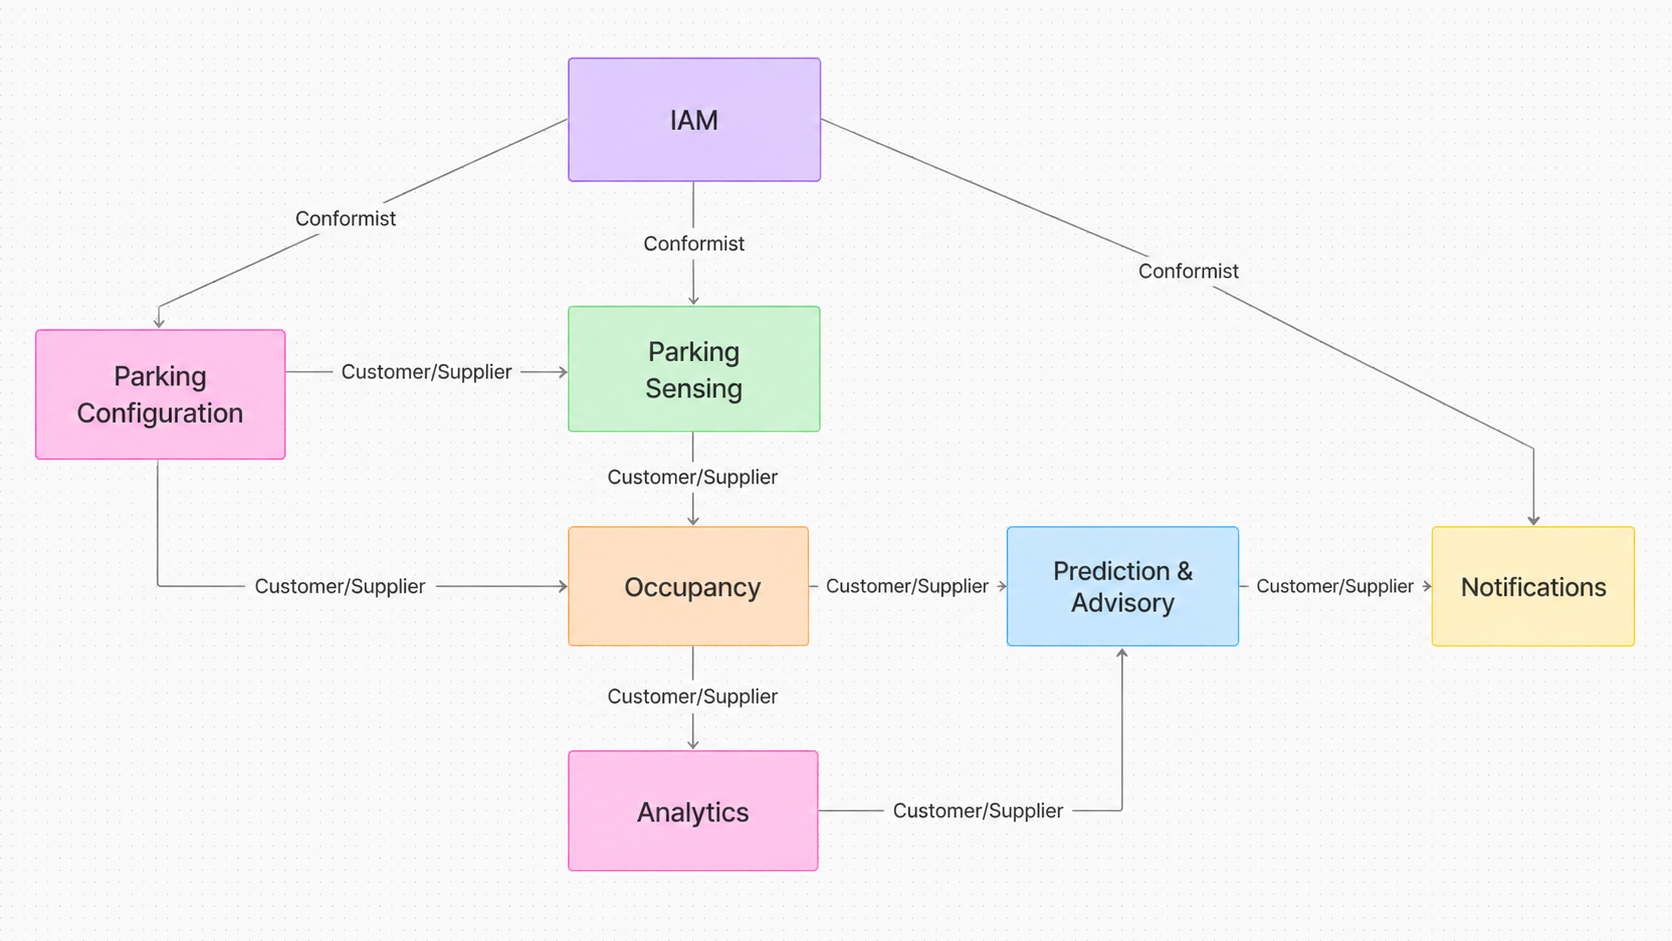
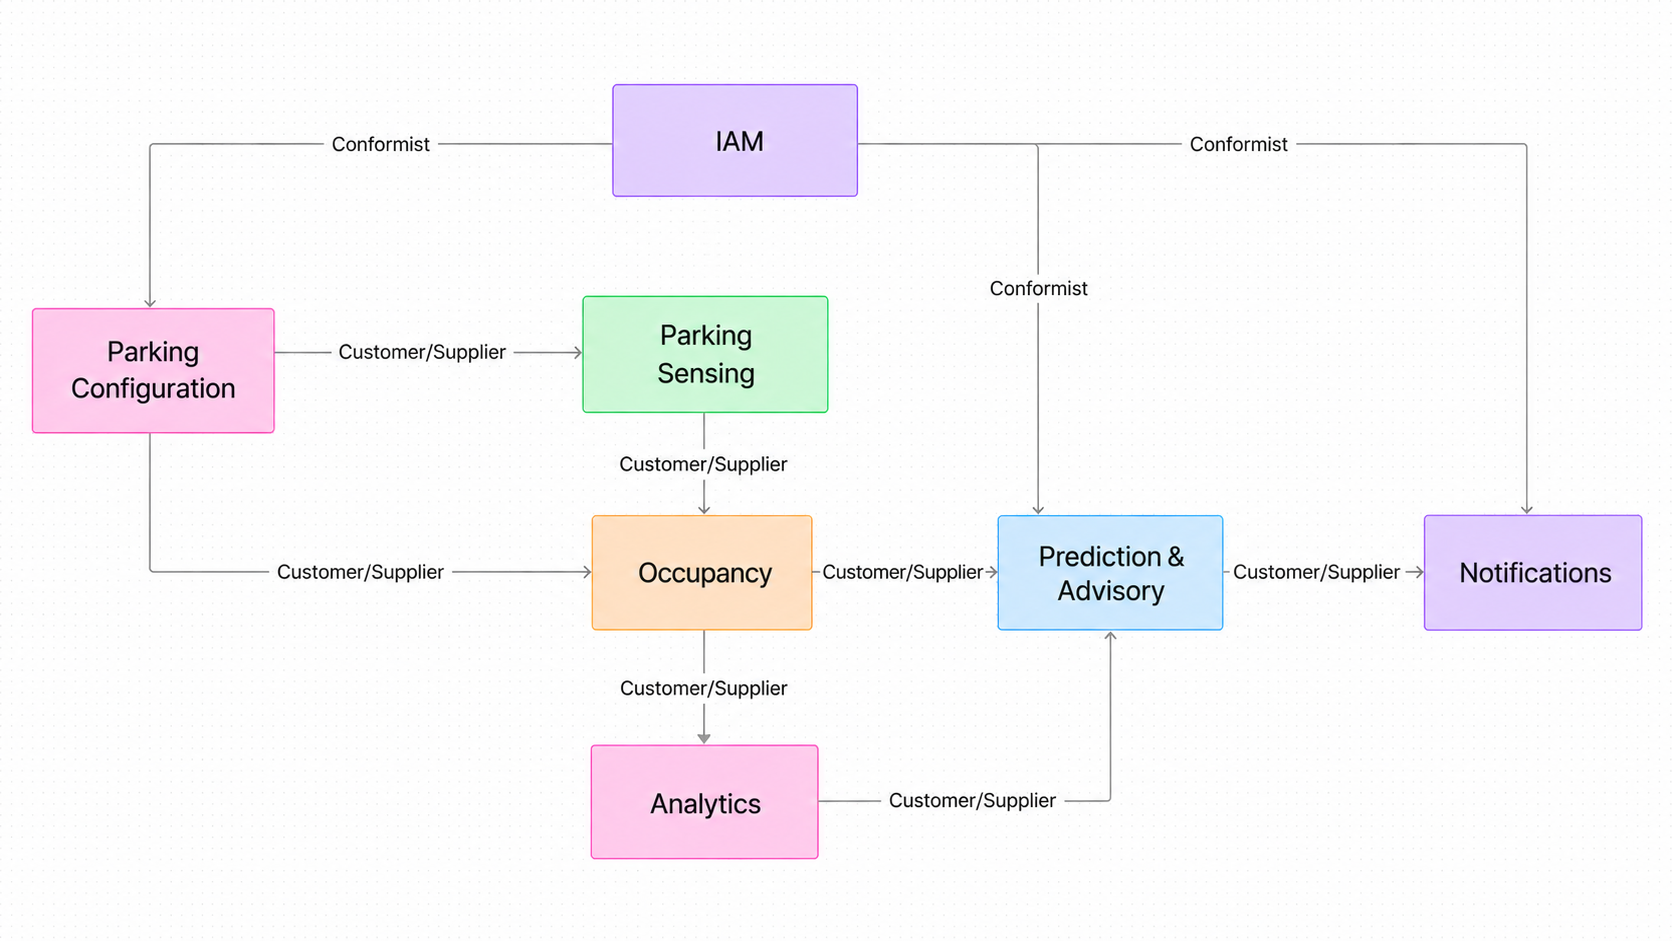
fix(chapter4): update context mapping information

diff --git a/README.md b/README.md
@@ -3006,15 +3006,77 @@ A continuación, se presentan los Bounded Context Canvases que resumen el propó
 
 ### 4.2.5. Context Mapping
 
-El Context Mapping presenta las relaciones estructurales y los contratos de integración entre los bounded contexts de Quadrapp. El mapa permite reconocer qué contexto proporciona cada dato, cómo se protege el lenguaje del dominio y qué integraciones utilizan contratos publicados.
+En esta sección se comparan distintas formas en las que los Bounded Contexts de Quadrapp pueden relacionarse entre sí. La intención es encontrar una estructura que permita que cada contexto mantenga responsabilidades claras, evitando dependencias innecesarias y facilitando que la solución pueda evolucionar sin afectar otras partes del sistema.
 
-Parking Configuration expone los datos maestros del estacionamiento mediante Open Host Service. Parking Sensing entrega los eventos técnicos a Occupancy mediante una relación Customer/Supplier y una Anti-Corruption Layer que los transforma en conceptos del negocio. Occupancy publica los eventos y el estado actual que Prediction & Advisory utiliza para construir su propio feature store y generar estimaciones.
+Para ello, se analizan los bounded context Parking Sensing, Occupancy, Prediction & Advisory, Parking Configuration, Notifications, Analytics e IAM, considerando patrones de integración de Domain-Driven Design como Customer/Supplier, Conformist, Shared Kernel, Open Host Service, Published Language y Anti-Corruption Layer.
 
-Analytics adopta los eventos de Occupancy mediante Conformist y consume `ForecastGenerated` desde Prediction & Advisory para comparar las estimaciones con la ocupación observada. Prediction & Advisory publica los eventos destinados a Notifications mediante Published Language. IAM ofrece autenticación y autorización como un servicio transversal, mientras que las integraciones con el proveedor de mapas y el servicio de correo se aíslan mediante Anti-Corruption Layers.
+<br>
 
-![Context Mapping de Quadrapp](./assets/capitulo-04/ContextMapping.png)
+**Opción 1 – Contextos independientes con relaciones directas:**
 
-*Figura: Context Mapping de Quadrapp. Los recuadros continuos representan bounded contexts y los punteados, servicios externos; las etiquetas en amarillo indican el patrón de integración y las líneas discontinuas, las relaciones asíncronas basadas en eventos.*
+![ContextMapping_Option1](./assets/capitulo-04/ContextMapping_Option1.png)
+
+La primera alternativa mantiene los siete Bounded Contexts completamente separados y utiliza principalmente relaciones Customer/Supplier para intercambiar la información necesaria.
+
+Parking Configuration proporciona la estructura de los estacionamientos a Parking Sensing y Occupancy. Parking Sensing procesa las señales provenientes de la infraestructura IoT y entrega los eventos interpretados a Occupancy, que mantiene el estado actual de ocupación y disponibilidad.
+
+Occupancy proporciona su estado consolidado a Prediction & Advisory, que lo utiliza junto con la información contextual del estacionamiento para generar pronósticos y asesoría de llegada. Occupancy también proporciona sus eventos a Analytics, mientras que Prediction & Advisory entrega a Analytics los pronósticos generados para que puedan compararse posteriormente con la ocupación observada.
+
+Finalmente, Prediction & Advisory proporciona a Notifications los eventos predictivos relevantes para determinar cuándo se debe comunicar una situación al conductor. IAM funciona de forma transversal proporcionando la información de autenticación y autorización requerida por los demás contextos.
+
+Esta alternativa mantiene límites claros y permite una implementación sencilla de las relaciones. Sin embargo, utilizar contratos directos en todas las integraciones incrementa la dependencia entre productores y consumidores y obliga a cada contexto a adaptarse ante cambios en los contratos de los demás.
+
+<br>
+
+**Opción 2 – Uso de Shared Kernel entre contextos relacionados:**
+
+![ContextMapping_Option2](./assets/capitulo-04/ContextMapping_Option2.png)
+
+La segunda alternativa mantiene la misma división en siete Bounded Contexts, pero introduce Shared Kernel entre aquellos que trabajan con conceptos estrechamente relacionados.
+Parking Sensing y Occupancy compartirían una representación mínima de los eventos relacionados con los espacios del estacionamiento. De forma similar, Occupancy y Analytics compartirían conceptos relacionados con la ocupación observada que posteriormente se utiliza para construir el historial.
+
+El resto de integraciones conservaría relaciones directas. Prediction & Advisory seguiría recibiendo información de Occupancy y Parking Configuration, mientras que Analytics recibiría los pronósticos generados para calcular su precisión.
+
+El principal beneficio de esta alternativa es reducir la cantidad de transformaciones entre modelos y simplificar inicialmente algunas integraciones. Sin embargo, un Shared Kernel exige coordinación entre los equipos responsables de los contextos involucrados, ya que cualquier modificación del modelo compartido puede afectar a ambos lados.
+
+En Quadrapp este riesgo resulta especialmente relevante entre Parking Sensing y Occupancy, porque uno representa conceptos técnicos de infraestructura mientras el otro representa conceptos de negocio. También afectaría la independencia de Analytics si compartiera directamente el modelo de Occupancy.
+
+Por ello, aunque puede reducir el esfuerzo inicial, esta alternativa se descarta debido al mayor acoplamiento entre los modelos.
+
+<br>
+
+**Opción 3 – Contextos independientes con protección de modelos:**
+
+![ContextMapping_Option2](./assets/capitulo-04/ContextMapping_Option3.png)
+
+La tercera alternativa mantiene a los Bounded Contexts separados, pero introduce mecanismos específicos para evitar que los detalles internos de un contexto se propaguen directamente hacia otro.
+
+Entre Parking Sensing y Occupancy se utiliza una relación Customer/Supplier junto con una Anti-Corruption Layer. Esto permite que Parking Sensing continúe trabajando con información técnica proveniente de sensores y dispositivos, mientras Occupancy recibe únicamente la información necesaria para mantener el estado de disponibilidad de los espacios. De esta manera, Occupancy no necesita conocer cómo funciona internamente la tecnología de sensado.
+
+Parking Configuration actúa como la fuente de información sobre la estructura del estacionamiento, incluyendo estacionamientos, zonas, espacios, asociaciones de sensores y datos de contexto como el calendario académico y los eventos del campus. Esta información puede ponerse a disposición de los demás contextos mediante un Open Host Service, evitando que cada uno tenga que conocer directamente su modelo interno.
+
+Occupancy proporciona a Prediction & Advisory el estado actual de ocupación y el flujo consolidado del estacionamiento. Por otro lado, Analytics consume los eventos publicados por Occupancy mediante una relación Conformist, utilizando esa información para construir su propio historial sin compartir directamente el modelo de dominio de Occupancy.
+
+Cuando Prediction & Advisory genera un nuevo pronóstico, publica el evento ForecastGenerated. Analytics utiliza este evento para comparar la predicción con la ocupación que finalmente fue observada y así calcular las métricas de precisión del modelo.
+
+De manera similar, cuando se identifica una situación relevante como una posible saturación, Prediction & Advisory publica esa información para Notifications mediante Published Language. De esta forma, Notifications puede actuar sobre el evento sin depender de cómo se realiza internamente la predicción.
+
+IAM se mantiene como un contexto transversal encargado de la identidad, autenticación y autorización. Los demás contextos utilizan la información de usuario, institución y rol proporcionada por IAM cuando necesitan validar el acceso a sus funcionalidades.
+
+Las integraciones con servicios externos también se mantienen aisladas. IAM se comunica con el servicio de correo mediante una Anti-Corruption Layer para el envío de códigos de acceso, mientras que Notifications utiliza el mismo enfoque para integrarse con el proveedor de mensajería push.
+
+Finalmente, el proveedor de mapas no forma parte de las dependencias del backend. El cálculo del tiempo estimado de llegada se realiza directamente en la aplicación móvil y el servidor recibe únicamente el ETA expresado en minutos, manteniendo la decisión de privacidad definida para Quadrapp.
+
+<br>
+
+**Elección:**
+
+Se selecciona la Opción 3, ya que proporciona el mejor equilibrio entre separación de responsabilidades, autonomía de los Bounded Contexts y protección de sus modelos.
+La decisión más importante es mantener una Anti-Corruption Layer entre Parking Sensing y Occupancy. Esto evita que conceptos relacionados con sensores, dispositivos o telemetría formen parte del modelo de ocupación y permite modificar la tecnología de sensado sin alterar directamente las reglas de negocio.
+
+También se decide utilizar Conformist entre Occupancy y Analytics, en lugar de Shared Kernel. Analytics necesita consumir la información producida por Occupancy, pero no requiere compartir sus objetos de dominio ni su persistencia. De esta forma, conserva su propio modelo orientado al análisis histórico.
+
+Prediction & Advisory permanece como el Core Domain de Quadrapp y recibe únicamente la información necesaria para generar pronósticos y asesoría. Sus resultados se exponen mediante contratos publicados hacia Analytics y Notifications, evitando que estos contextos dependan de la implementación interna del modelo predictivo.
 
 ## 4.3. Software Architecture
 
